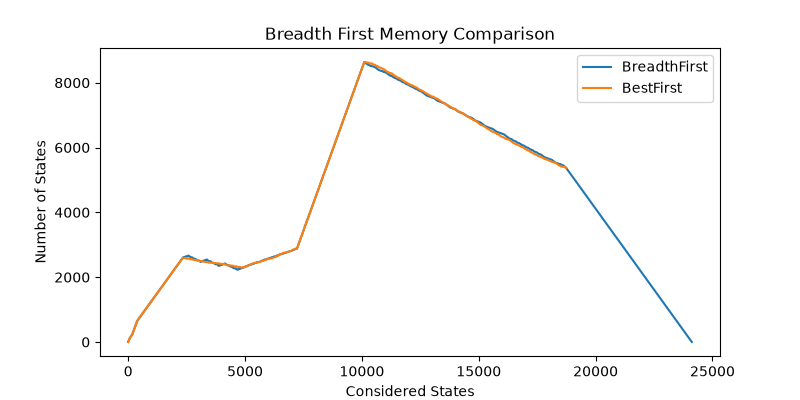
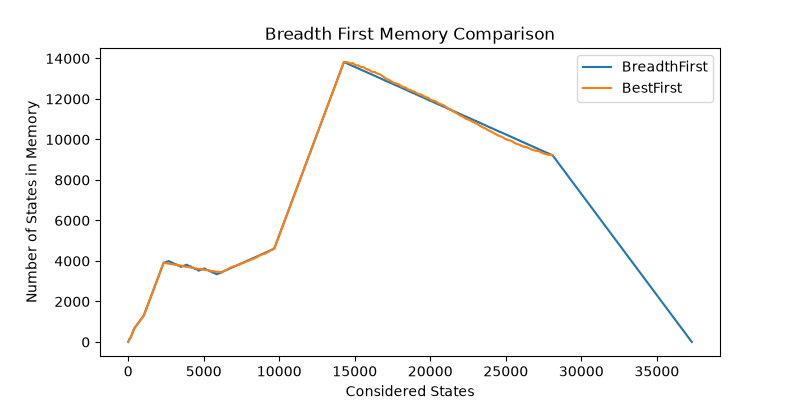
as-label

diff --git a/visualisation/comparisons/depth_first_memory_comparison.py b/visualisation/comparisons/depth_first_memory_comparison.py
@@ -18,7 +18,7 @@ def depth_first_memory_comparison() -> None:
 
     ax.yaxis.get_major_locator().set_params(nbins=20, steps=[1, 2, 5, 10])  # type: ignore[call-arg]
     ax.set_xlabel('Considered States')
-    ax.set_ylabel('Number of States')
+    ax.set_ylabel('Number of States in Memory')
     fig.savefig("results/comparisons/depth_first_memory_comparison.png")
 
 

diff --git a/visualisation/comparisons/constructive_memory_comparison.py b/visualisation/comparisons/constructive_memory_comparison.py
@@ -16,7 +16,7 @@ def constructive_memory_comparison() -> None:
     ax.plot(depth_result['states_sizes'], label='States')
 
     ax.set_xlabel('Considered States')
-    ax.set_ylabel('Number of States')
+    ax.set_ylabel('Number of States in Memory')
     fig.savefig("results/comparisons/constructive_memory_comparison.png")
 
 

diff --git a/visualisation/breadth_first/breadth_first_memory_graph.py b/visualisation/breadth_first/breadth_first_memory_graph.py
@@ -11,7 +11,7 @@ def breadth_first_memory_graph() -> None:
 
     ax.plot(result['states_sizes'], label='States')
     ax.set_xlabel('Considered States')
-    ax.set_ylabel('Number of States')
+    ax.set_ylabel('Number of States in Memory')
     fig.savefig("results/breadth_first/breadth_first_memory.png")
 
 

diff --git a/visualisation/comparisons/breadth_first_memory_comparison.py b/visualisation/comparisons/breadth_first_memory_comparison.py
@@ -17,7 +17,7 @@ def breadth_first_memory_comparison() -> None:
     ax.legend(loc='upper right')
 
     ax.set_xlabel('Considered States')
-    ax.set_ylabel('Number of States')
+    ax.set_ylabel('Number of States in Memory')
     fig.savefig("results/comparisons/breadth_first_memory_comparison.png")
 
 

diff --git a/visualisation/depth_first/depth_first_memory_graph.py b/visualisation/depth_first/depth_first_memory_graph.py
@@ -20,7 +20,7 @@ def depth_first_memory_graph() -> None:
     )
     fig.colorbar(hb, ax=ax, label='Frequency')
     ax.set_xlabel('Considered States')
-    ax.set_ylabel('Number of States')
+    ax.set_ylabel('Number of States in Memory')
     fig.savefig("results/depth_first/depth_first_memory.png")
 
 
